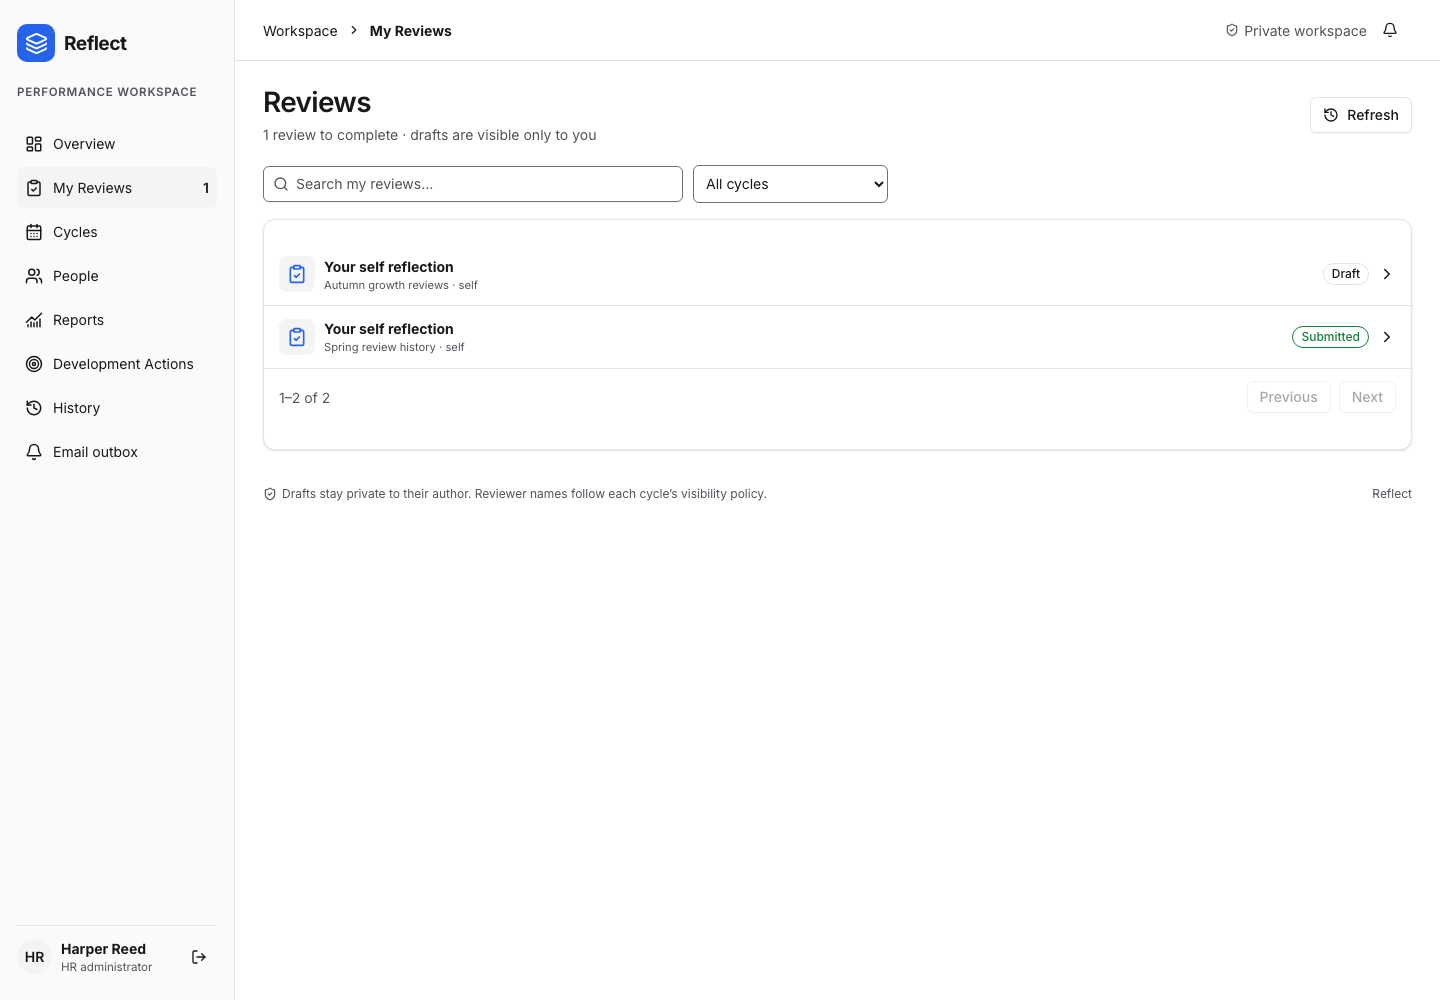
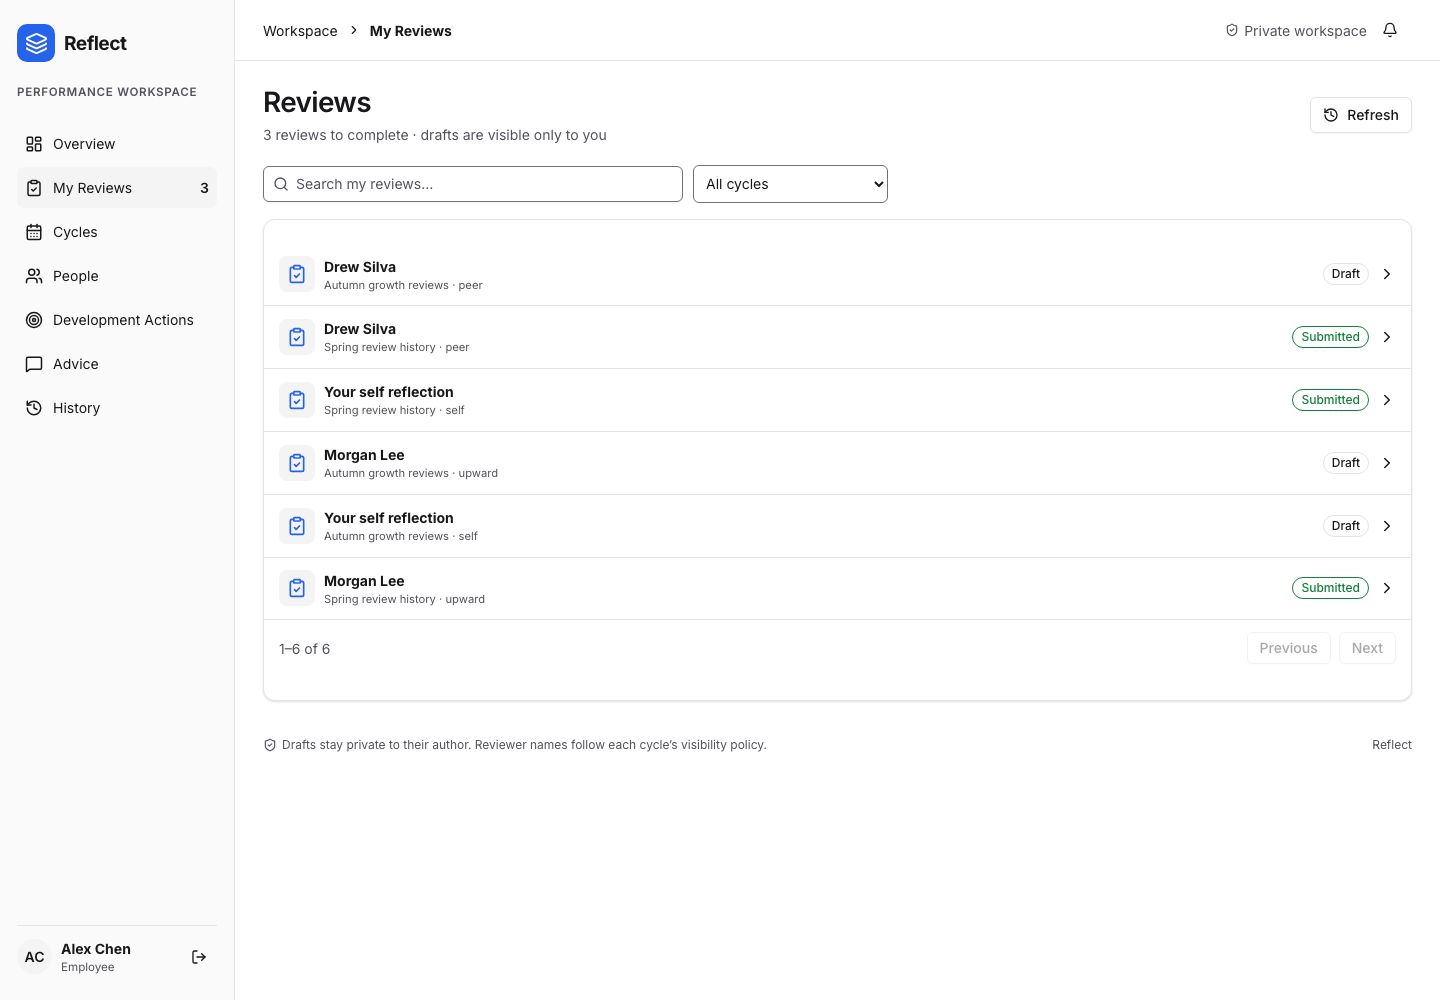
Refresh the Reflect template listing and gallery

diff --git a/README.md b/README.md
@@ -2,7 +2,7 @@
 
 A performance review app for HR, managers and employees, inspired by Lattice and built with [Neander](https://neander.ai).
 
-![Reflect overview](.neander/thumbnail.png)
+![Reflect development goal and its linked action](.neander/thumbnail.png)
 
 Plan review cycles, collect self/manager/upward/peer feedback, calibrate summaries, release results and track development actions. Reflect includes role-scoped access, private drafts, versioned result packets, acknowledgments, CSV imports, privacy-aware reports, CSV/PDF exports and an email outbox.
 
